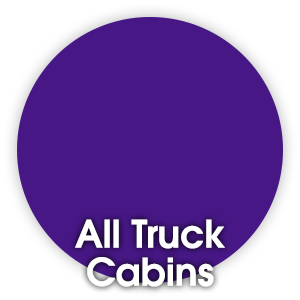
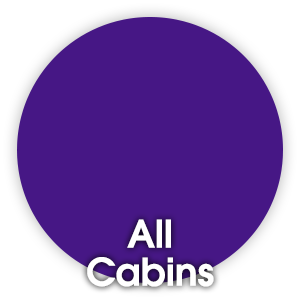
Make cabins tab functional
The buttons etc now function as intended, showing and hiding the cabin
handling tab as needed. The cabin handling tab is hidden by default, and
when returning to the setup screen from the main view, the correct tab
is displayed. The placeholder images have also been tweaked.

Changed region(s): [[0.24, 0.72, 0.75, 0.84]]

diff --git a/packer.py b/packer.py
@@ -77,6 +77,7 @@ class PackerApp:
         self.tab_selector.add(self.tab_cabins, text = " Cabins ")
         self.tab_cabin_handling = ttk.Frame(self.tab_selector)
         self.tab_selector.add(self.tab_cabin_handling, text = " Cabin Handling ")
+        self.tab_selector.hide(self.tab_cabin_handling) # the title is set here, but the tab doesn't need to be shown yet
 
         # Welcome tab
         self.tab_welcome_title = ttk.Label(self.tab_welcome, text = "Welcome to Paintjob Packer")
@@ -153,14 +154,20 @@ class PackerApp:
         self.tab_cabins_variable = tk.StringVar(None, "large")
         self.tab_cabins_option_large = ttk.Radiobutton(self.tab_cabins, text = "Largest cabin only", value = "large", variable = self.tab_cabins_variable)
         self.tab_cabins_option_large.grid(row = 2, column = 0, pady = 10)
+        self.tab_cabins_option_large.bind("<1>", lambda e: self.show_hide_cabin_handling_tab("large"))
+        self.tab_cabins_image_large.bind("<1>", lambda e: self.show_hide_cabin_handling_tab("large"))
         self.tab_cabins_option_all = ttk.Radiobutton(self.tab_cabins, text = "All truck cabins", value = "all", variable = self.tab_cabins_variable)
         self.tab_cabins_option_all.grid(row = 2, column = 1, pady = 10)
+        self.tab_cabins_option_all.bind("<1>", lambda e: self.show_hide_cabin_handling_tab("all"))
+        self.tab_cabins_image_all.bind("<1>", lambda e: self.show_hide_cabin_handling_tab("all"))
         self.tab_cabins_desc_large = ttk.Label(self.tab_cabins, text = "Support only the largest cabin\nsize (Cabin A) for each truck", justify = "center")
         self.tab_cabins_desc_large.grid(row = 3, column = 0, padx = 10, sticky = "n")
         self.tab_cabins_desc_all = ttk.Label(self.tab_cabins, text = "Support every cabin\nsize for each truck", justify = "center")
         self.tab_cabins_desc_all.grid(row = 3, column = 1, padx = 10, sticky = "n")
         self.tab_cabins_button_prev = ttk.Button(self.tab_cabins, text = "< Prev", command = lambda : self.tab_selector.select(2))
-
+        self.tab_cabins_button_prev.grid(row = 4, column = 0, padx = 10, pady = 10, sticky = "w")
+        self.tab_cabins_button_next = ttk.Button(self.tab_cabins, text = "Continue", command = lambda : self.switch_to_main_screen())
+        self.tab_cabins_button_next.grid(row = 4, column = 1, padx = 10, pady = 10, sticky = "e")
 
         # Cabin Handling tab
         self.tab_cabin_handling_title = ttk.Label(self.tab_cabin_handling, text = "How should separate cabins be handled?")
@@ -180,7 +187,7 @@ class PackerApp:
         self.tab_cabin_handling_desc_combined.grid(row = 3, column = 0, padx = 10, sticky = "n")
         self.tab_cabin_handling_desc_separate = ttk.Label(self.tab_cabin_handling, text = "Lets you tweak your design for each cabin\nsize, but your mod will be bigger", justify = "center")
         self.tab_cabin_handling_desc_separate.grid(row = 3, column = 1, padx = 10, sticky = "n")
-        self.tab_cabin_handling_button_prev = ttk.Button(self.tab_cabin_handling, text = "< Prev", command = lambda : self.tab_selector.select(2))
+        self.tab_cabin_handling_button_prev = ttk.Button(self.tab_cabin_handling, text = "< Prev", command = lambda : self.tab_selector.select(3))
         self.tab_cabin_handling_button_prev.grid(row = 4, column = 0, padx = 10, pady = 10, sticky = "w")
         self.tab_cabin_handling_button_next = ttk.Button(self.tab_cabin_handling, text = "Continue", command = lambda : self.switch_to_main_screen())
         self.tab_cabin_handling_button_next.grid(row = 4, column = 1, padx = 10, pady = 10, stick = "e")
@@ -324,6 +331,15 @@ class PackerApp:
         self.panel_buttons_feedback.bind("<1>", lambda e: webbrowser.open_new(forum_link))
         self.panel_buttons_generate = ttk.Button(self.panel_buttons, text = "Generate mod", command = lambda : self.verify_all_inputs())
         self.panel_buttons_generate.grid(row = 1, column = 2, pady = (5, 0), sticky = "e")
+
+    def show_hide_cabin_handling_tab(self, cabins_variable):
+        self.tab_cabins_variable.set(cabins_variable)
+        if cabins_variable == "large":
+            self.tab_selector.hide(self.tab_cabin_handling)
+            self.tab_cabins_button_next.configure(text = "Continue", command = lambda : self.switch_to_main_screen())
+        elif cabins_variable == "all":
+            self.tab_selector.add(self.tab_cabin_handling)
+            self.tab_cabins_button_next.configure(text = "Next >", command = lambda : self.tab_selector.select(4))
 
     def switch_to_setup_screen(self):
         if self.tab_paintjob_variable.get() == "single":
